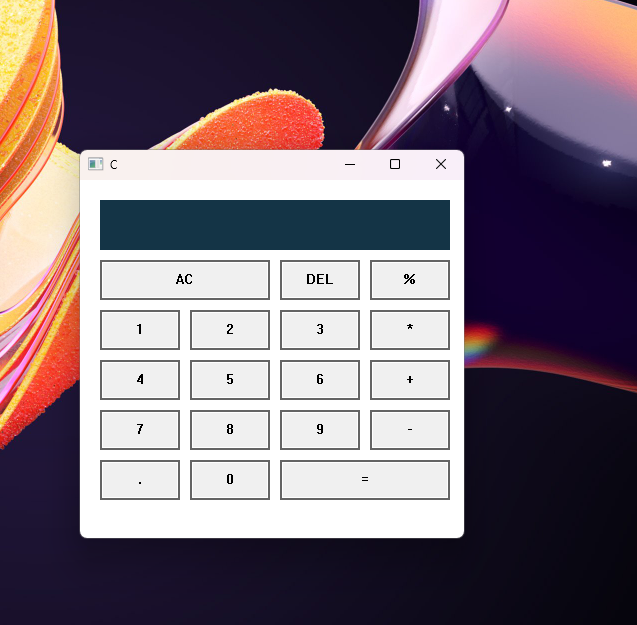
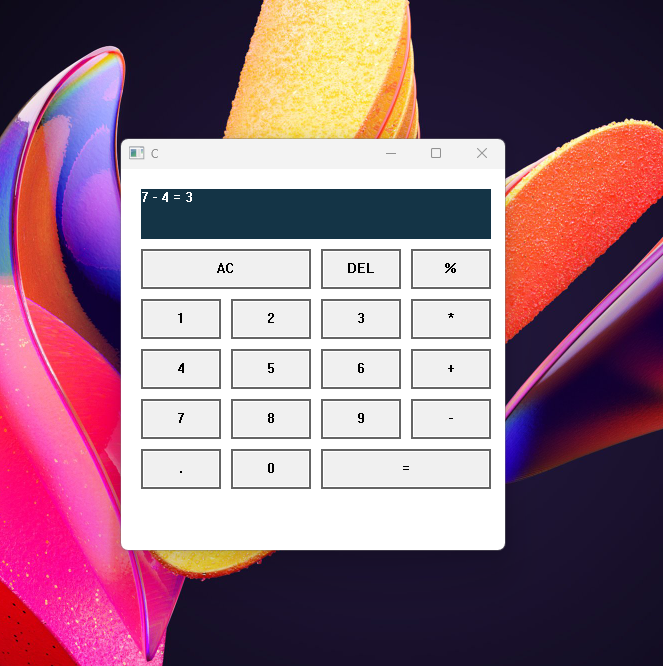
+ Allow digits , operation on resultLabel

diff --git a/Calculator/Program.cs b/Calculator/Program.cs
@@ -47,7 +47,7 @@ class Program
 						{
 					 		pendingOperator = "/"; 
 							currentInput = ""; 
-							SetWindowText(hResult, "");
+							SetWindowText(hResult, $"{leftOperand} {pendingOperator}");
 						}
 						break;
 					}
@@ -60,7 +60,7 @@ class Program
 						{
 					 		pendingOperator = "*";
 							currentInput = "";
-							SetWindowText(hResult, "");
+							SetWindowText(hResult, $"{leftOperand} {pendingOperator}");
 						}
 						break;
 					}
@@ -72,8 +72,8 @@ class Program
 						if ( double.TryParse(currentInput, out leftOperand))
 						{
 							pendingOperator = "+"; 
-							currentInput = "";
-							SetWindowText(hResult, "");
+							SetWindowText(hResult, $"{leftOperand} {pendingOperator}");
+							currentInput = "";  // reset for next number.
 						}
 						break;
 					}
@@ -86,7 +86,7 @@ class Program
 						{
 							pendingOperator = "-"; 
 							currentInput = "";
-							SetWindowText(hResult, "");
+							SetWindowText(hResult, $"{leftOperand} {pendingOperator}");
 						}
 						break;
 					}
@@ -113,7 +113,7 @@ class Program
 								case "/": result = rightOperand != 0 ? leftOperand / rightOperand : double.NaN; break;
 							}
 
-							SetWindowText(hResult, result.ToString("0.##")); // format nicely
+							SetWindowText(hResult, $"{leftOperand} {pendingOperator} {rightOperand} = {result}"); // format nicely
 							currentInput = "";   // reset for next input
 							leftOperand = result;  // allow chaining.
 							pendingOperator = null;

diff --git a/Calculator/obj/Debug/net10.0/Calculator.AssemblyInfo.cs b/Calculator/obj/Debug/net10.0/Calculator.AssemblyInfo.cs
@@ -13,7 +13,7 @@ using System.Reflection;
 [assembly: System.Reflection.AssemblyCompanyAttribute("Calculator")]
 [assembly: System.Reflection.AssemblyConfigurationAttribute("Debug")]
 [assembly: System.Reflection.AssemblyFileVersionAttribute("1.0.0.0")]
-[assembly: System.Reflection.AssemblyInformationalVersionAttribute("1.0.0+aaf9e31d92ee5787381afee7c64170c6043f1e99")]
+[assembly: System.Reflection.AssemblyInformationalVersionAttribute("1.0.0+b3ea1b97a27fddf995c51f621c2a4f4a99b2feb5")]
 [assembly: System.Reflection.AssemblyProductAttribute("Calculator")]
 [assembly: System.Reflection.AssemblyTitleAttribute("Calculator")]
 [assembly: System.Reflection.AssemblyVersionAttribute("1.0.0.0")]
